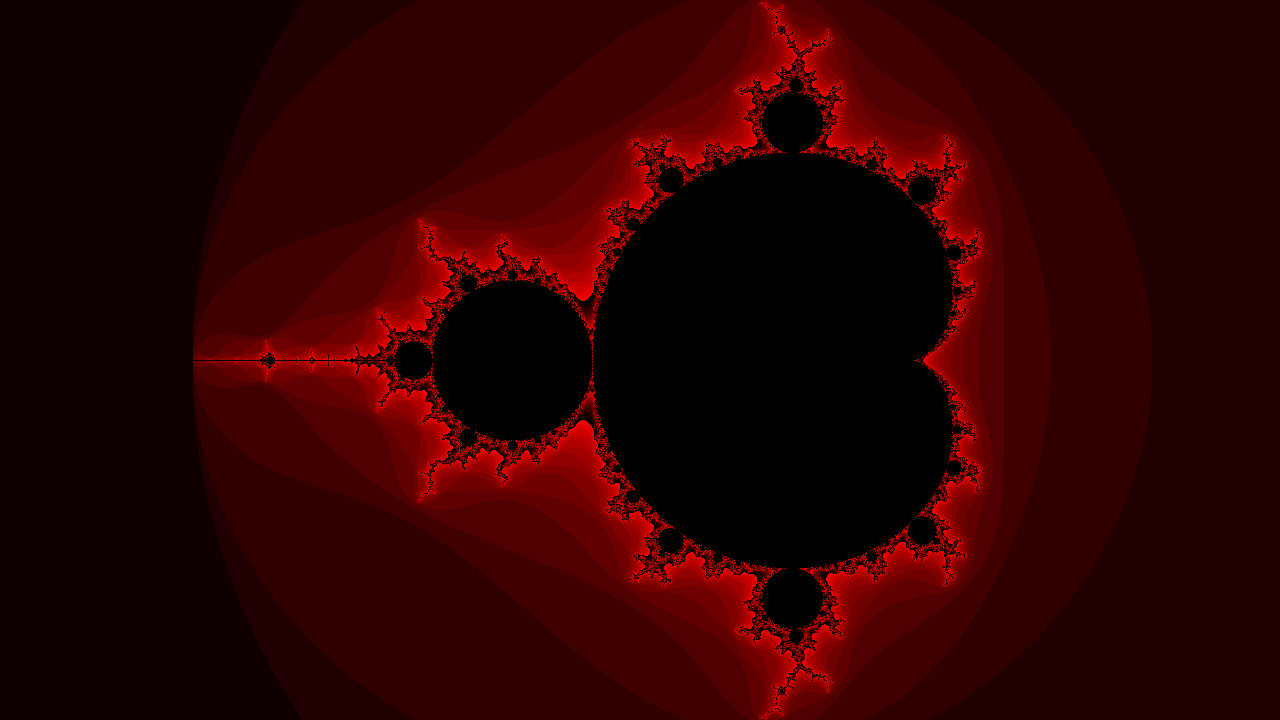
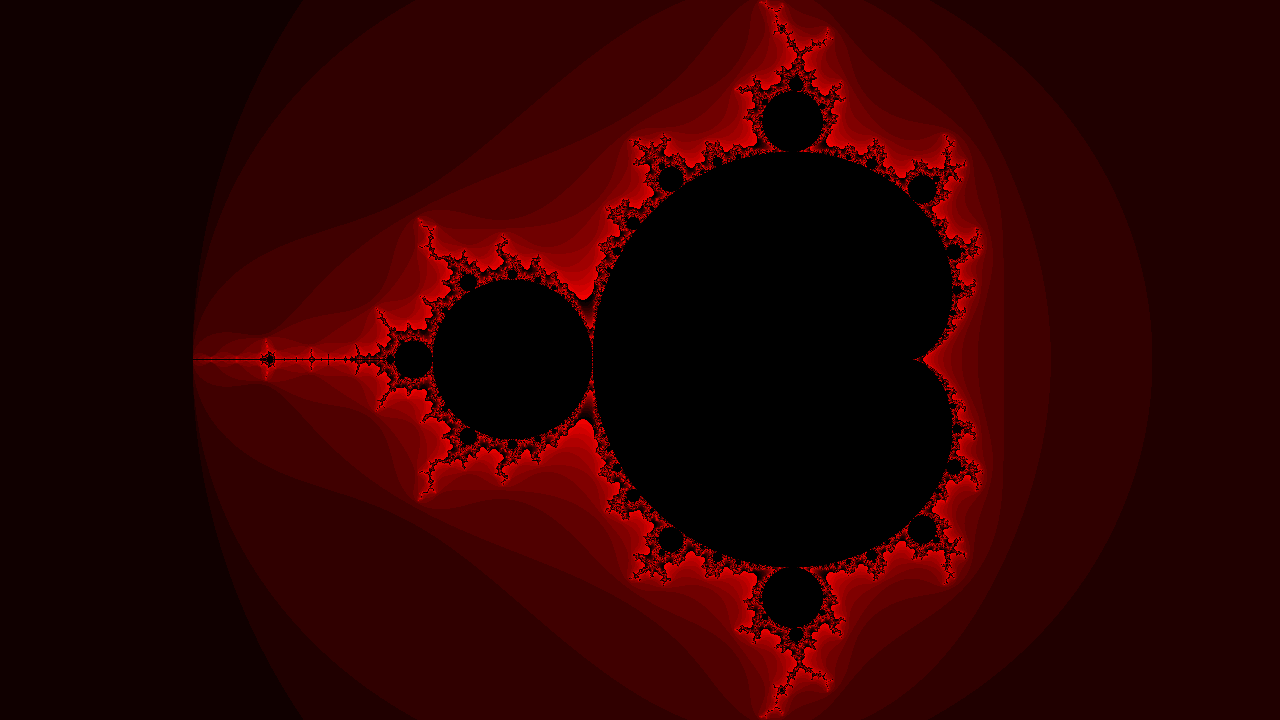
fixed some bugs

diff --git a/ms_hybrid.c b/ms_hybrid.c
@@ -129,7 +129,7 @@ inline void worker(){
         double x, y;
         double x2, y2, xy;
         double len;
-#pragma omp parallel num_threads(num_threads) private(idx, cr, ci, repeat, x, y, x2, y2, xy, len) shared(x_step, y_step)
+#pragma omp parallel num_threads(num_threads) private(idx, cr, ci, repeat, x, y, x2, y2, xy, len) shared(x_step, y_step, size, off, array)
 #pragma omp for schedule(dynamic)
         for(idx=0 ; idx<size ; ++idx){
             
@@ -387,8 +387,8 @@ int main(int argc, char **argv){
 
         png_bytepp rf = (png_bytepp)malloc(height * sizeof(png_bytep));
 
-        for(int i=height-1;i>=0;--i){
-            rf[i] = (png_bytep)(line_png + i * width * 3);
+        for(int y=0;y<height;++y){
+            rf[y] = (png_bytep)(line_png + (height - 1 - y) * width*3);
         }
         
         png_write_image(png_ptr, rf);
